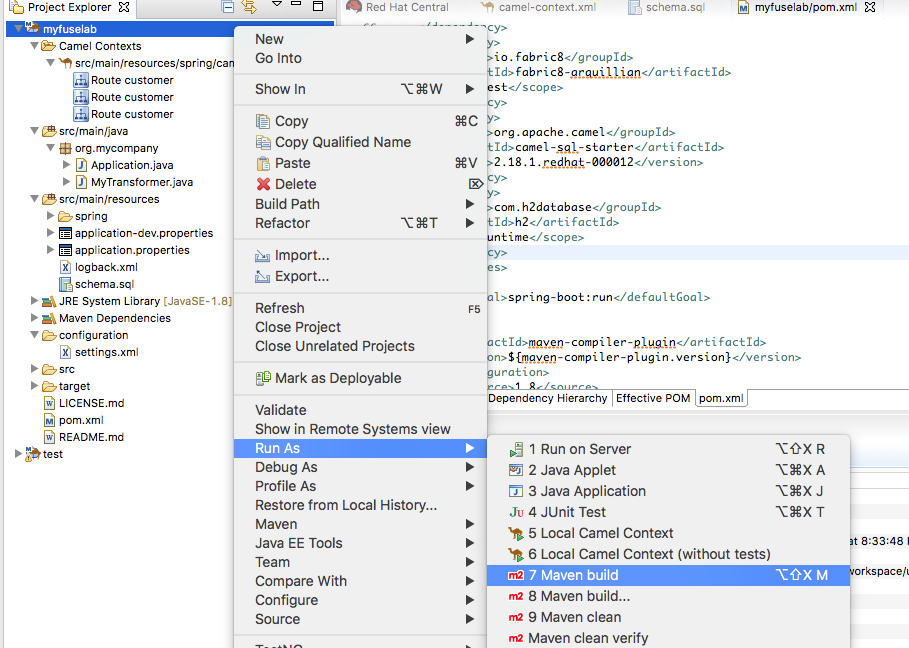
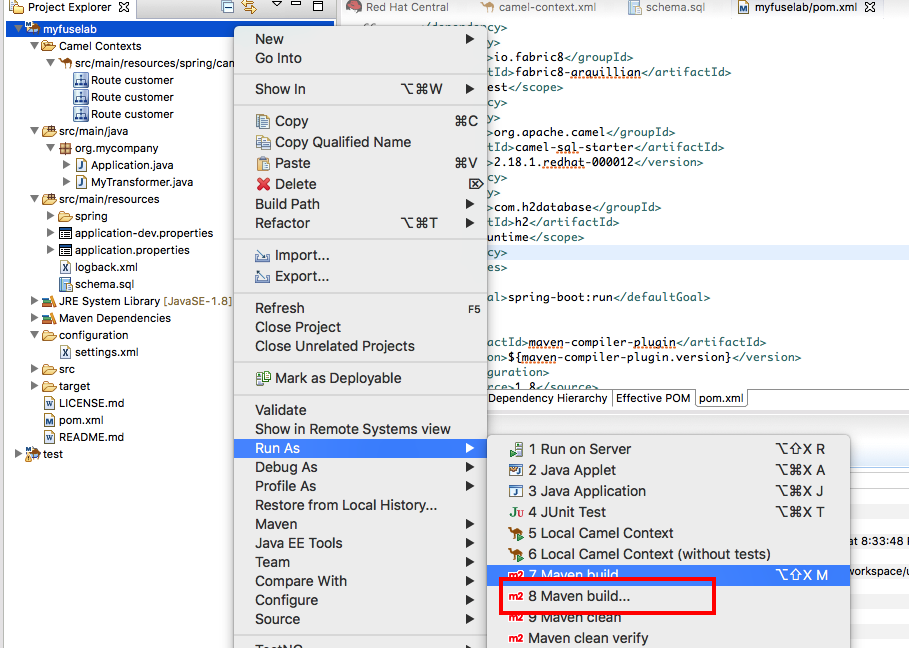
Fix issues 12-maven build

Changed region(s): [[0.5237, 0.8642, 0.9549, 0.9568], [0.2464, 0.679, 0.5545, 0.7099], [0.0, 0.0309, 0.2772, 0.0617]]

diff --git a/lab01/README.md b/lab01/README.md
@@ -102,7 +102,7 @@ Before we kick start the application, add the database driver dependency in the 
     ...
 </dependencies>
 ```
-Right click on the **myfuselab** in the project explorer panel, select **Run As..** -> **Maven build** 
+Right click on the **myfuselab** in the project explorer panel, select **Run As..** -> **Maven build...** 
 
 ![14-mavenrun.png](./img/14-mavenrun.png)
 
